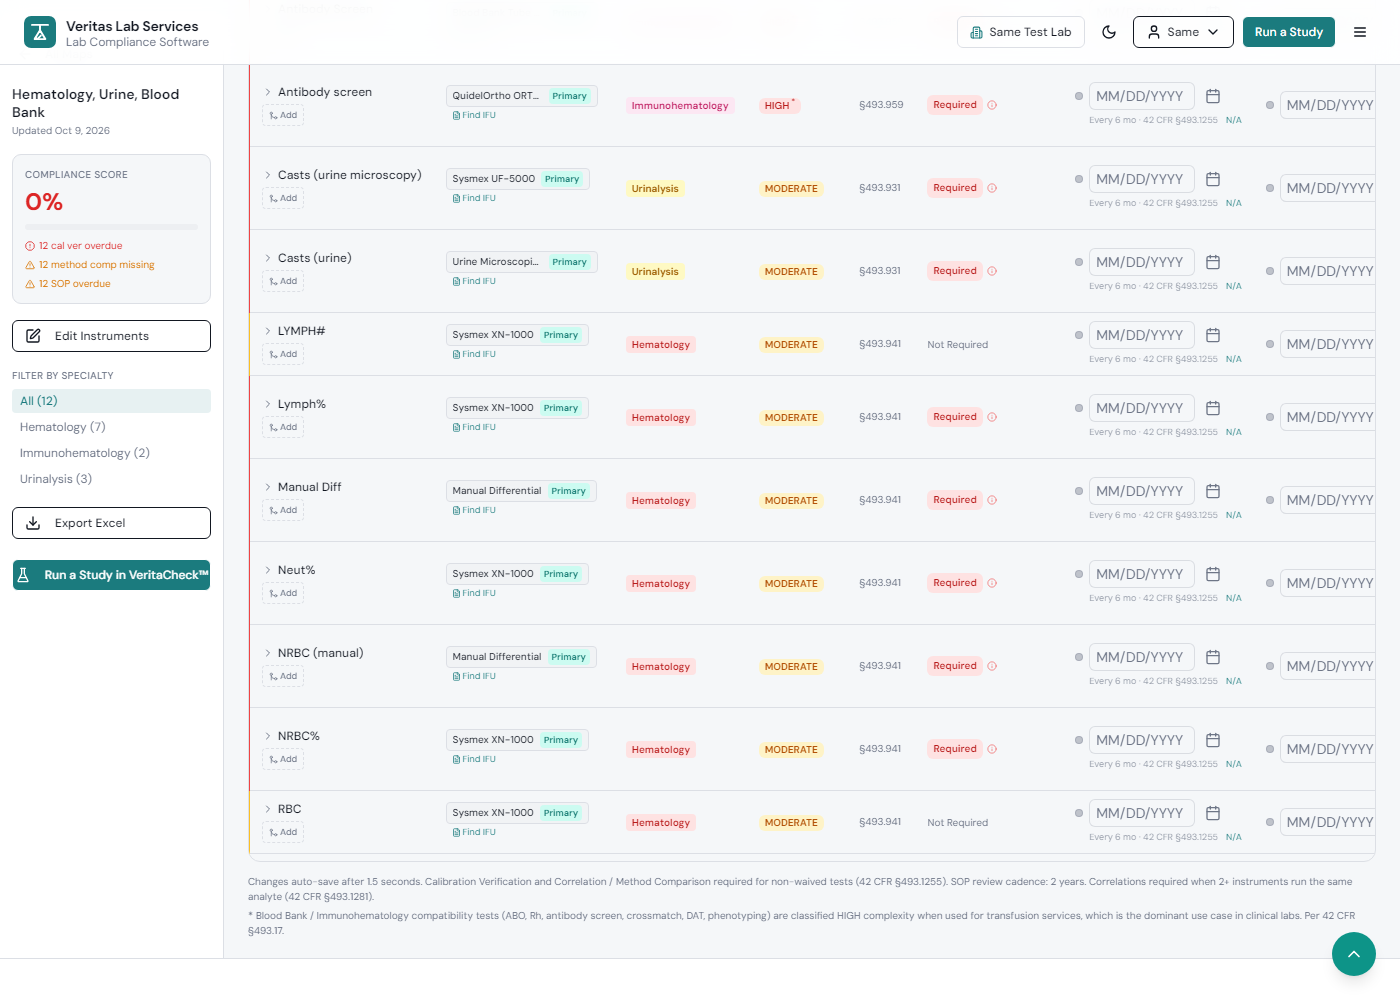
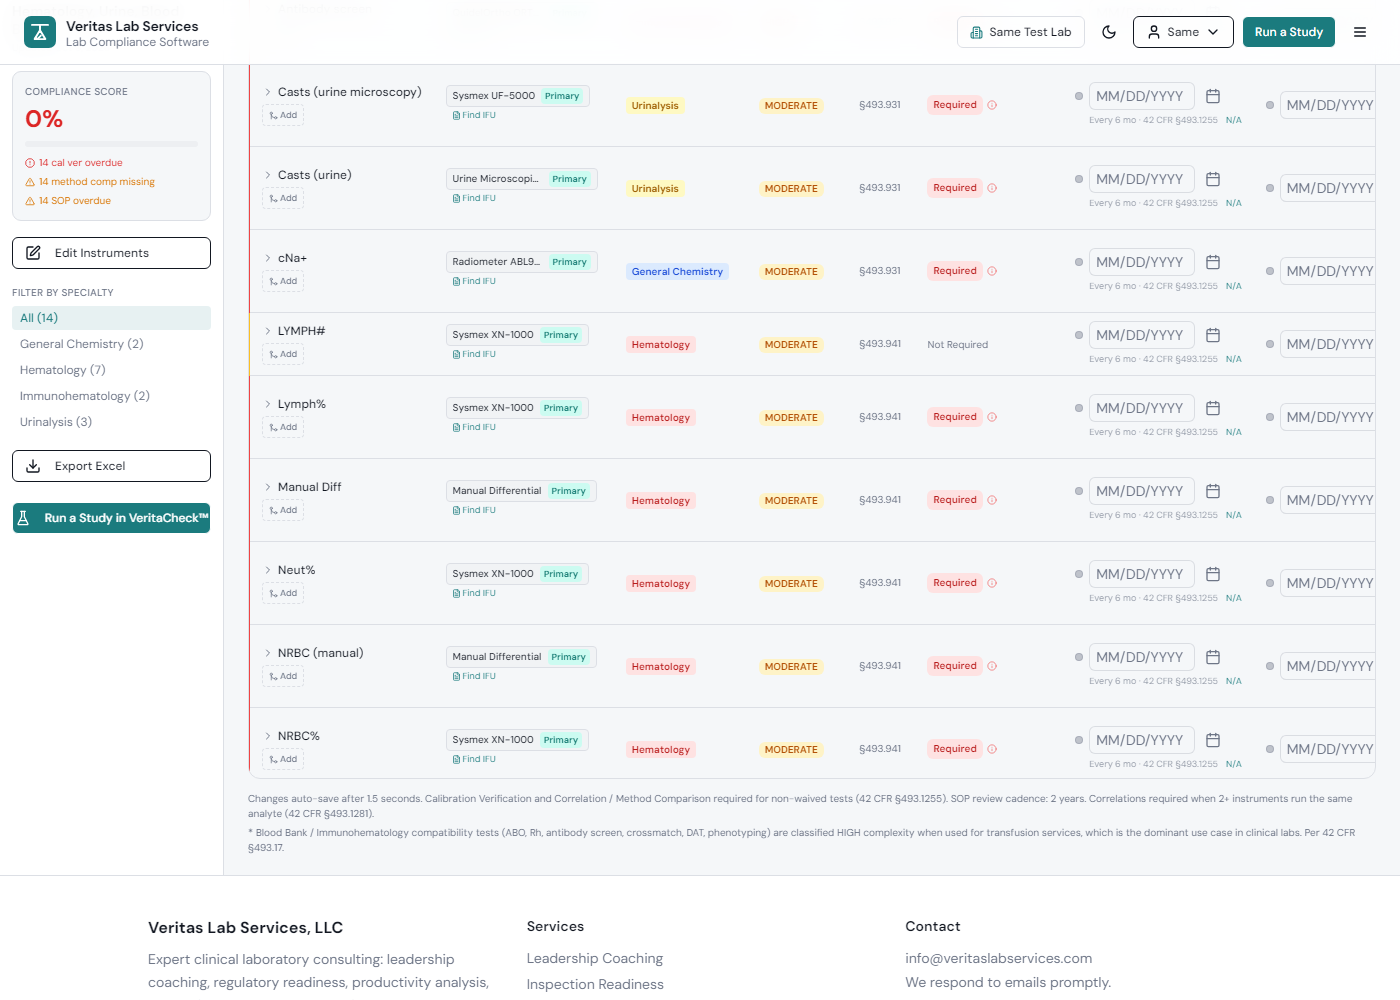
TASK: BUG-011 part B (Michael, Q42 = 1): blood gas and point-of-care whole blood pair with the chemistry and hematology analyzer for the same measurand; dipstick vs quantitative and Opiates vs Morphine stay apart
PLAN:
  1. sameTestKeys: new whole-blood family (sodium, potassium, chloride, ionized calcium, glucose, lactate, hemoglobin, hematocrit) matching analyzer and POC names (cNa+, cK+, cCa2+, ctHb, cGlu, cLac, iCa); anchored so total calcium, HbA1c, urine or CSF names never match.
  2. Device and setting words (i-STAT, StatStrip, HemoCue, POC, WB) ignored for that family, so "i-STAT Sodium-POC" is sodium.
  3. Check scripts extended; browser check seeds an ABL90 cNa+ beside a VITROS Sodium.

Self-check:
  - verify-same-test-correlation.mjs ALL PASS (130 checks, incl. ionized vs total calcium, urine sodium, HbA1c, COHb/MetHb vs Hgb kept apart); existing diff and coverage checks ALL PASS; tsc 0 errors.
  - Replay on 37 production maps: 58 requirements appear (part B adds i-STAT vs StatStrip glucose on Michaels Lab POC map), 0 lost.
  - Browser, local build: 18/18 light and dark; cNa+ and Sodium both Required ("11 Correlations Required").

diff --git a/shared/presetAnalytes.ts b/shared/presetAnalytes.ts
@@ -212,9 +212,13 @@ export function diffCorrelationKey(raw: string): string | null {
 //   7. Curated FDA / library name variants (PT, aPTT, FDA spellings).
 //   8. Otherwise the name itself, ignoring capital letters, spacing, punctuation,
 //      word order and a trailing plural ("Bilirubin, total" = "Total bilirubin").
-// Not grouped here (Michael's call, BUG-011 part B): blood gas and POC whole blood
-// vs chemistry ("cNa+" vs "Sodium"), urine dipstick vs quantitative urine chemistry,
-// Opiates vs Morphine.
+//   5b. Blood gas and point-of-care whole blood vs the chemistry or hematology
+//      analyzer for the same measurand ("cNa+" = "Sodium", "ctHb" = "HGB", "cGlu" =
+//      "Glucose"): Michael, BUG-011 part B (Q42 = 1, 2026-10-09). Ionized calcium
+//      stays apart from total calcium; any specimen word (urine, CSF) stays apart.
+// Kept apart by Michael's decision (Q42): urine dipstick vs quantitative urine
+// chemistry (a semi-quantitative screen is not the same test), Opiates vs Morphine
+// (different targets and cutoffs).
 
 const _stripParens = (s: string) => s.replace(/\([^)]*\)/g, " ");
 const _words = (s: string) => s.toLowerCase().replace(/[^a-z0-9#%+]+/g, " ").trim().split(/\s+/).filter(Boolean);
@@ -240,6 +244,20 @@ const _BLOOD_BANK: Array<[RegExp, string]> = [
   [/^(dat|direct antiglobulin( test)?|direct coombs( test)?)$/, "dat"],
   [/^(antigen|antigen typing|red cell antigen typing|rbc antigen typing|phenotyping|phenotype|antigen screen)$/, "antigen"],
   [/^(antibody titer|antibody titration|titer)$/, "titer"],
+];
+
+// Blood gas and point-of-care names for a chemistry or hematology measurand, matched
+// on the name without parentheses (so "Glucose (POC)" and "cCa2+(7.4)" qualify).
+// Anchored, so "Hemoglobin A1c", "Calcium, total" and "Sodium, urine" never match.
+const _WHOLE_BLOOD: Array<[RegExp, string]> = [
+  [/^(sodium|na|na\+|cna\+|whole blood sodium|sodium whole blood)$/, "sodium"],
+  [/^(potassium|k|k\+|ck\+|whole blood potassium|potassium whole blood)$/, "potassium"],
+  [/^(chloride|cl|ccl|whole blood chloride|chloride whole blood)$/, "chloride"],
+  [/^(ionized calcium|calcium ionized|ionised calcium|ica|ca\+\+|ca2\+|cca2\+|free calcium)$/, "ionized calcium"],
+  [/^(glucose|glu|cglu|blood glucose|whole blood glucose|glucose whole blood|poc glucose|glucose poc|glucose meter|capillary glucose|fingerstick glucose)$/, "glucose"],
+  [/^(lactate|lactic acid|lactic acid lactate|clac|lac|whole blood lactate)$/, "lactate"],
+  [/^(hemoglobin|haemoglobin|hgb|hb|thb|cthb|total hemoglobin|hemoglobin total)$/, "hemoglobin"],
+  [/^(hematocrit|haematocrit|hct|hct calc|calculated hematocrit|hematocrit calculated)$/, "hematocrit"],
 ];
 
 // Urine drug screen classes. Specimen words (urine) are ignored inside this family.
@@ -343,6 +361,12 @@ export function sameTestKeys(analyte: string): string[] {
     return [`bb:crossmatch:${phase}`];
   }
   for (const [re, key] of _BLOOD_BANK) if (re.test(bb)) return [`bb:${key}`];
+  // 5b. Blood gas / point-of-care whole blood vs chemistry and hematology (Q42 = 1).
+  // Device and setting words do not change the test: "i-STAT Sodium-POC" is sodium.
+  if (!_SPECIMEN_WORDS.test(lower)) {
+    const wb = base.replace(/\b(i stat|istat|epoc|piccolo|hemocue|statstrip|nova|accu chek|abl\d*|gem|poc|point of care|bedside|wb|meter)\b/g, " ").replace(/\s+/g, " ").trim();
+    for (const [re, key] of _WHOLE_BLOOD) if (re.test(base) || (wb && re.test(wb))) return [`same:${key}`];
+  }
   // 6. Drug classes.
   const drug = _words(_stripParens(raw)).filter((w) => !/^(urine|screen|ua|drug|qualitative|test|immunoassay)$/.test(w)).join(" ");
   const drugFull = _words(raw).filter((w) => !/^(urine|screen|ua|drug|qualitative|test|immunoassay)$/.test(w)).join(" ");
